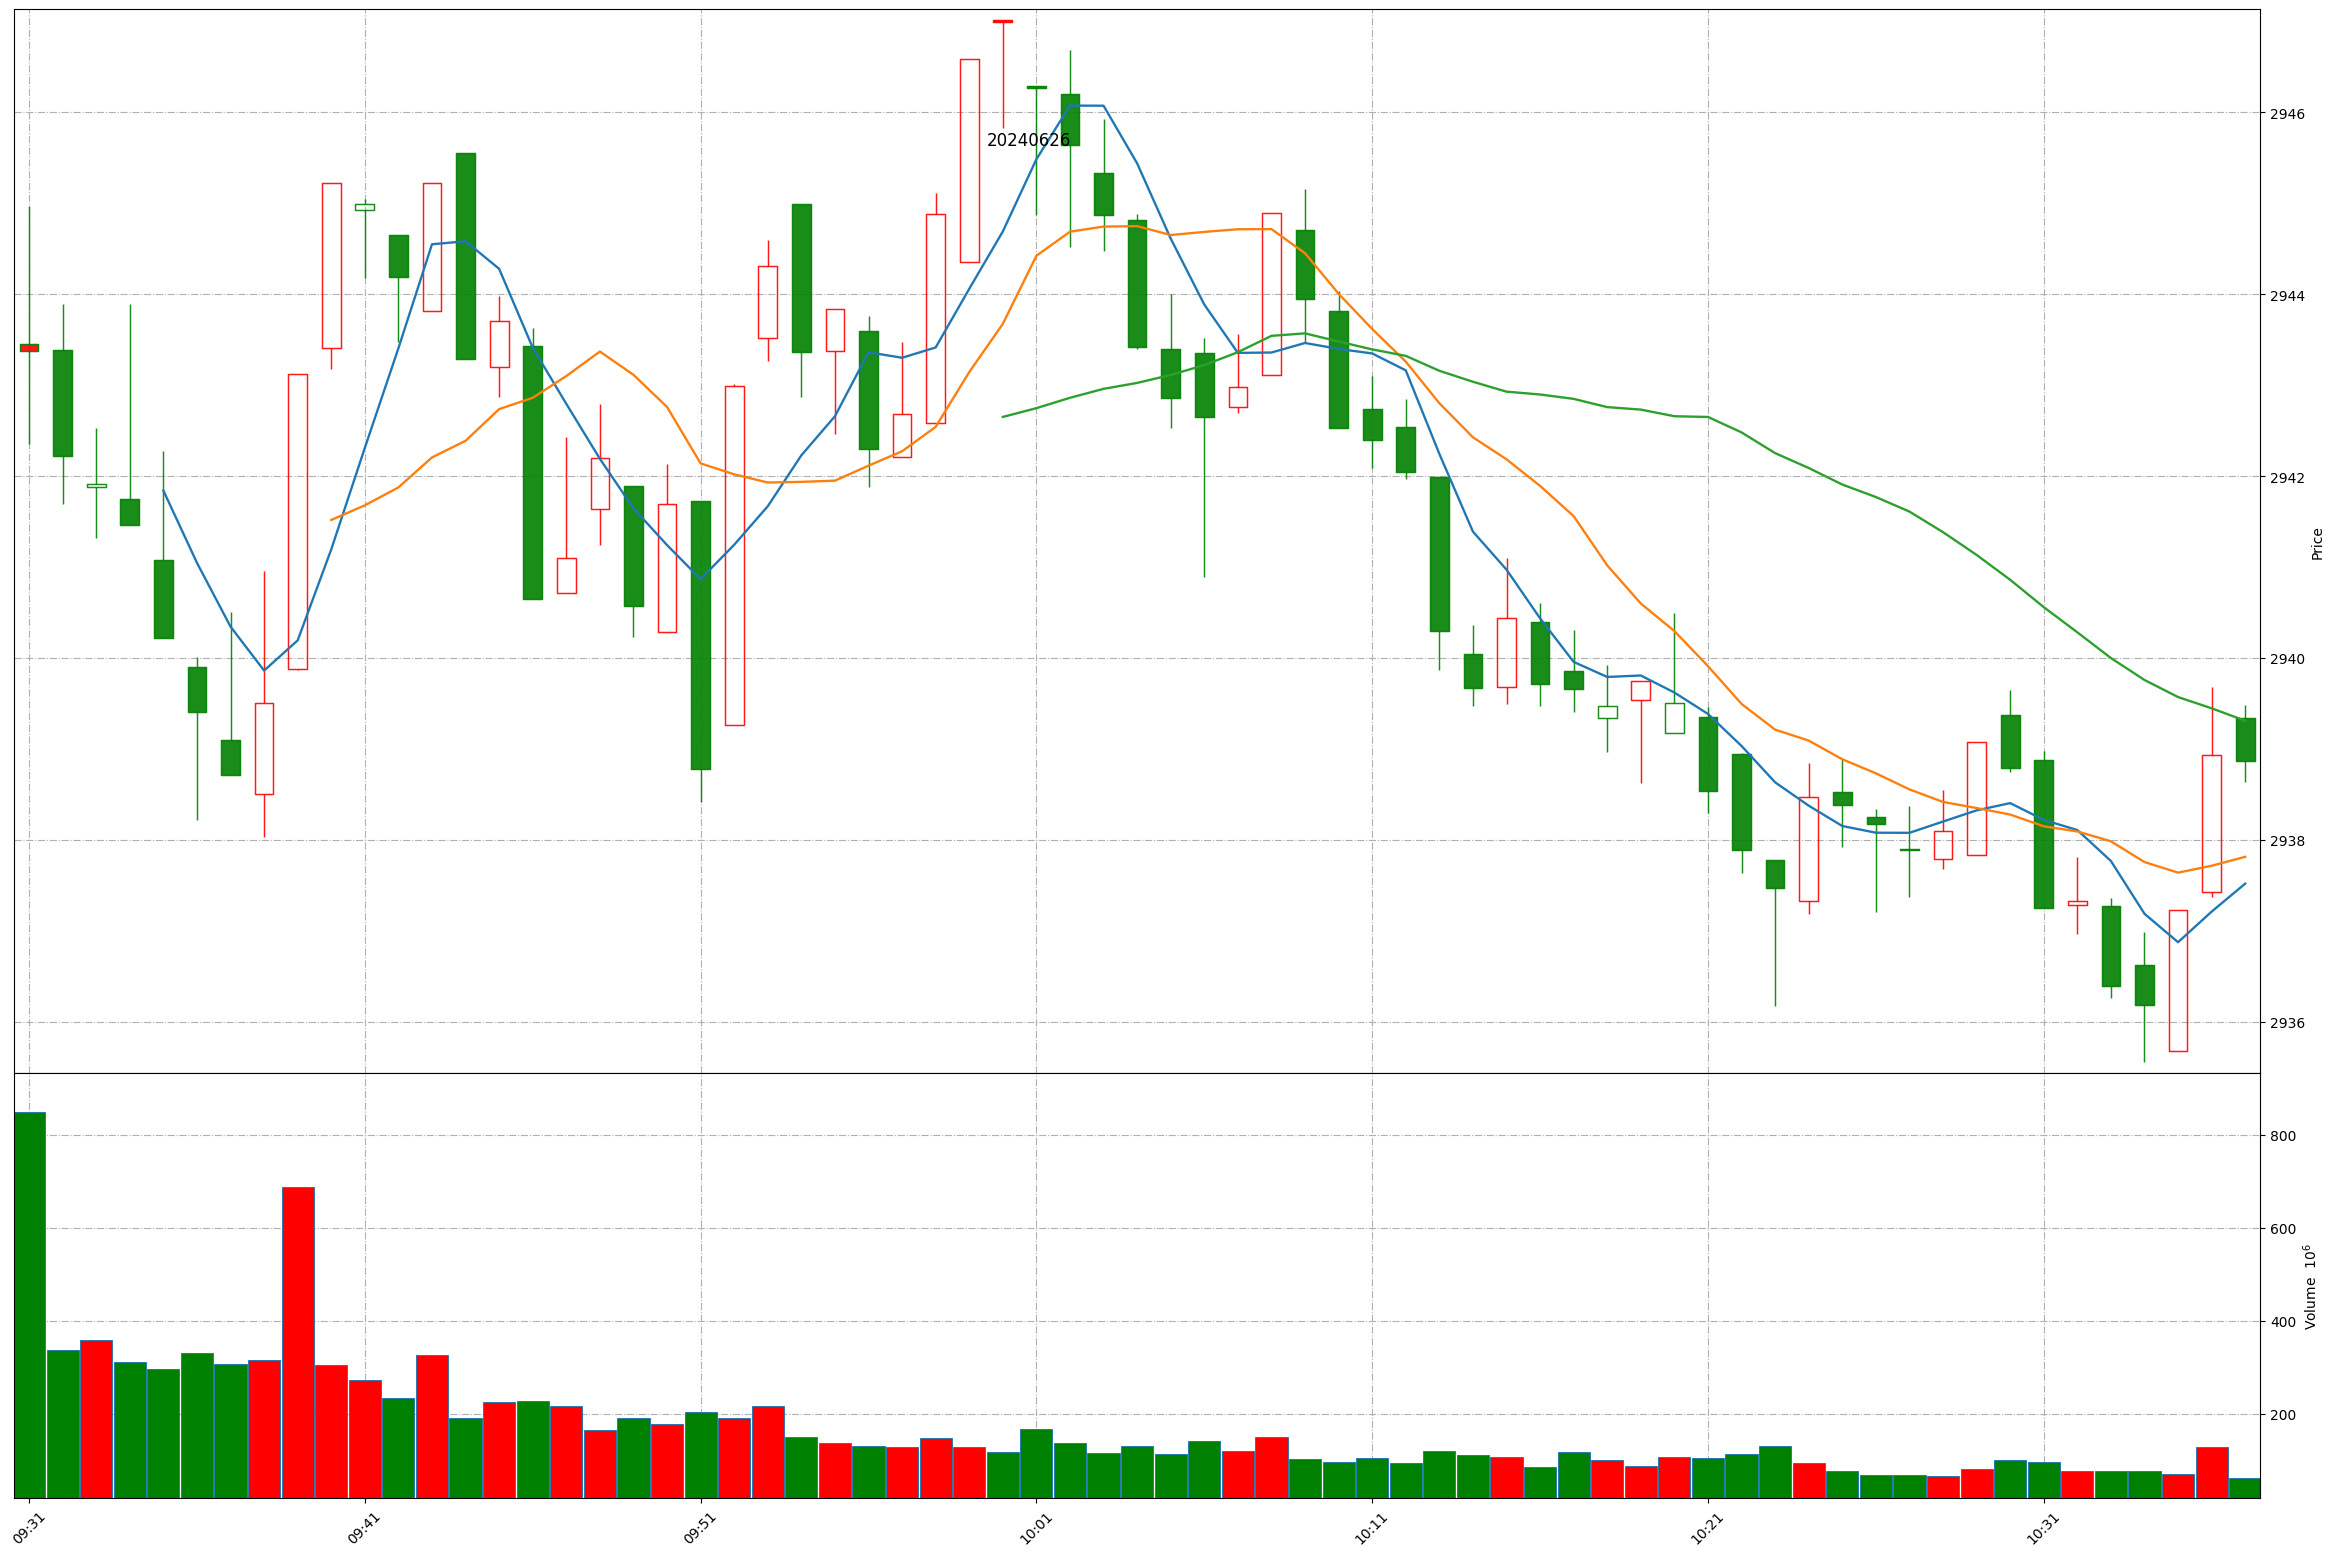
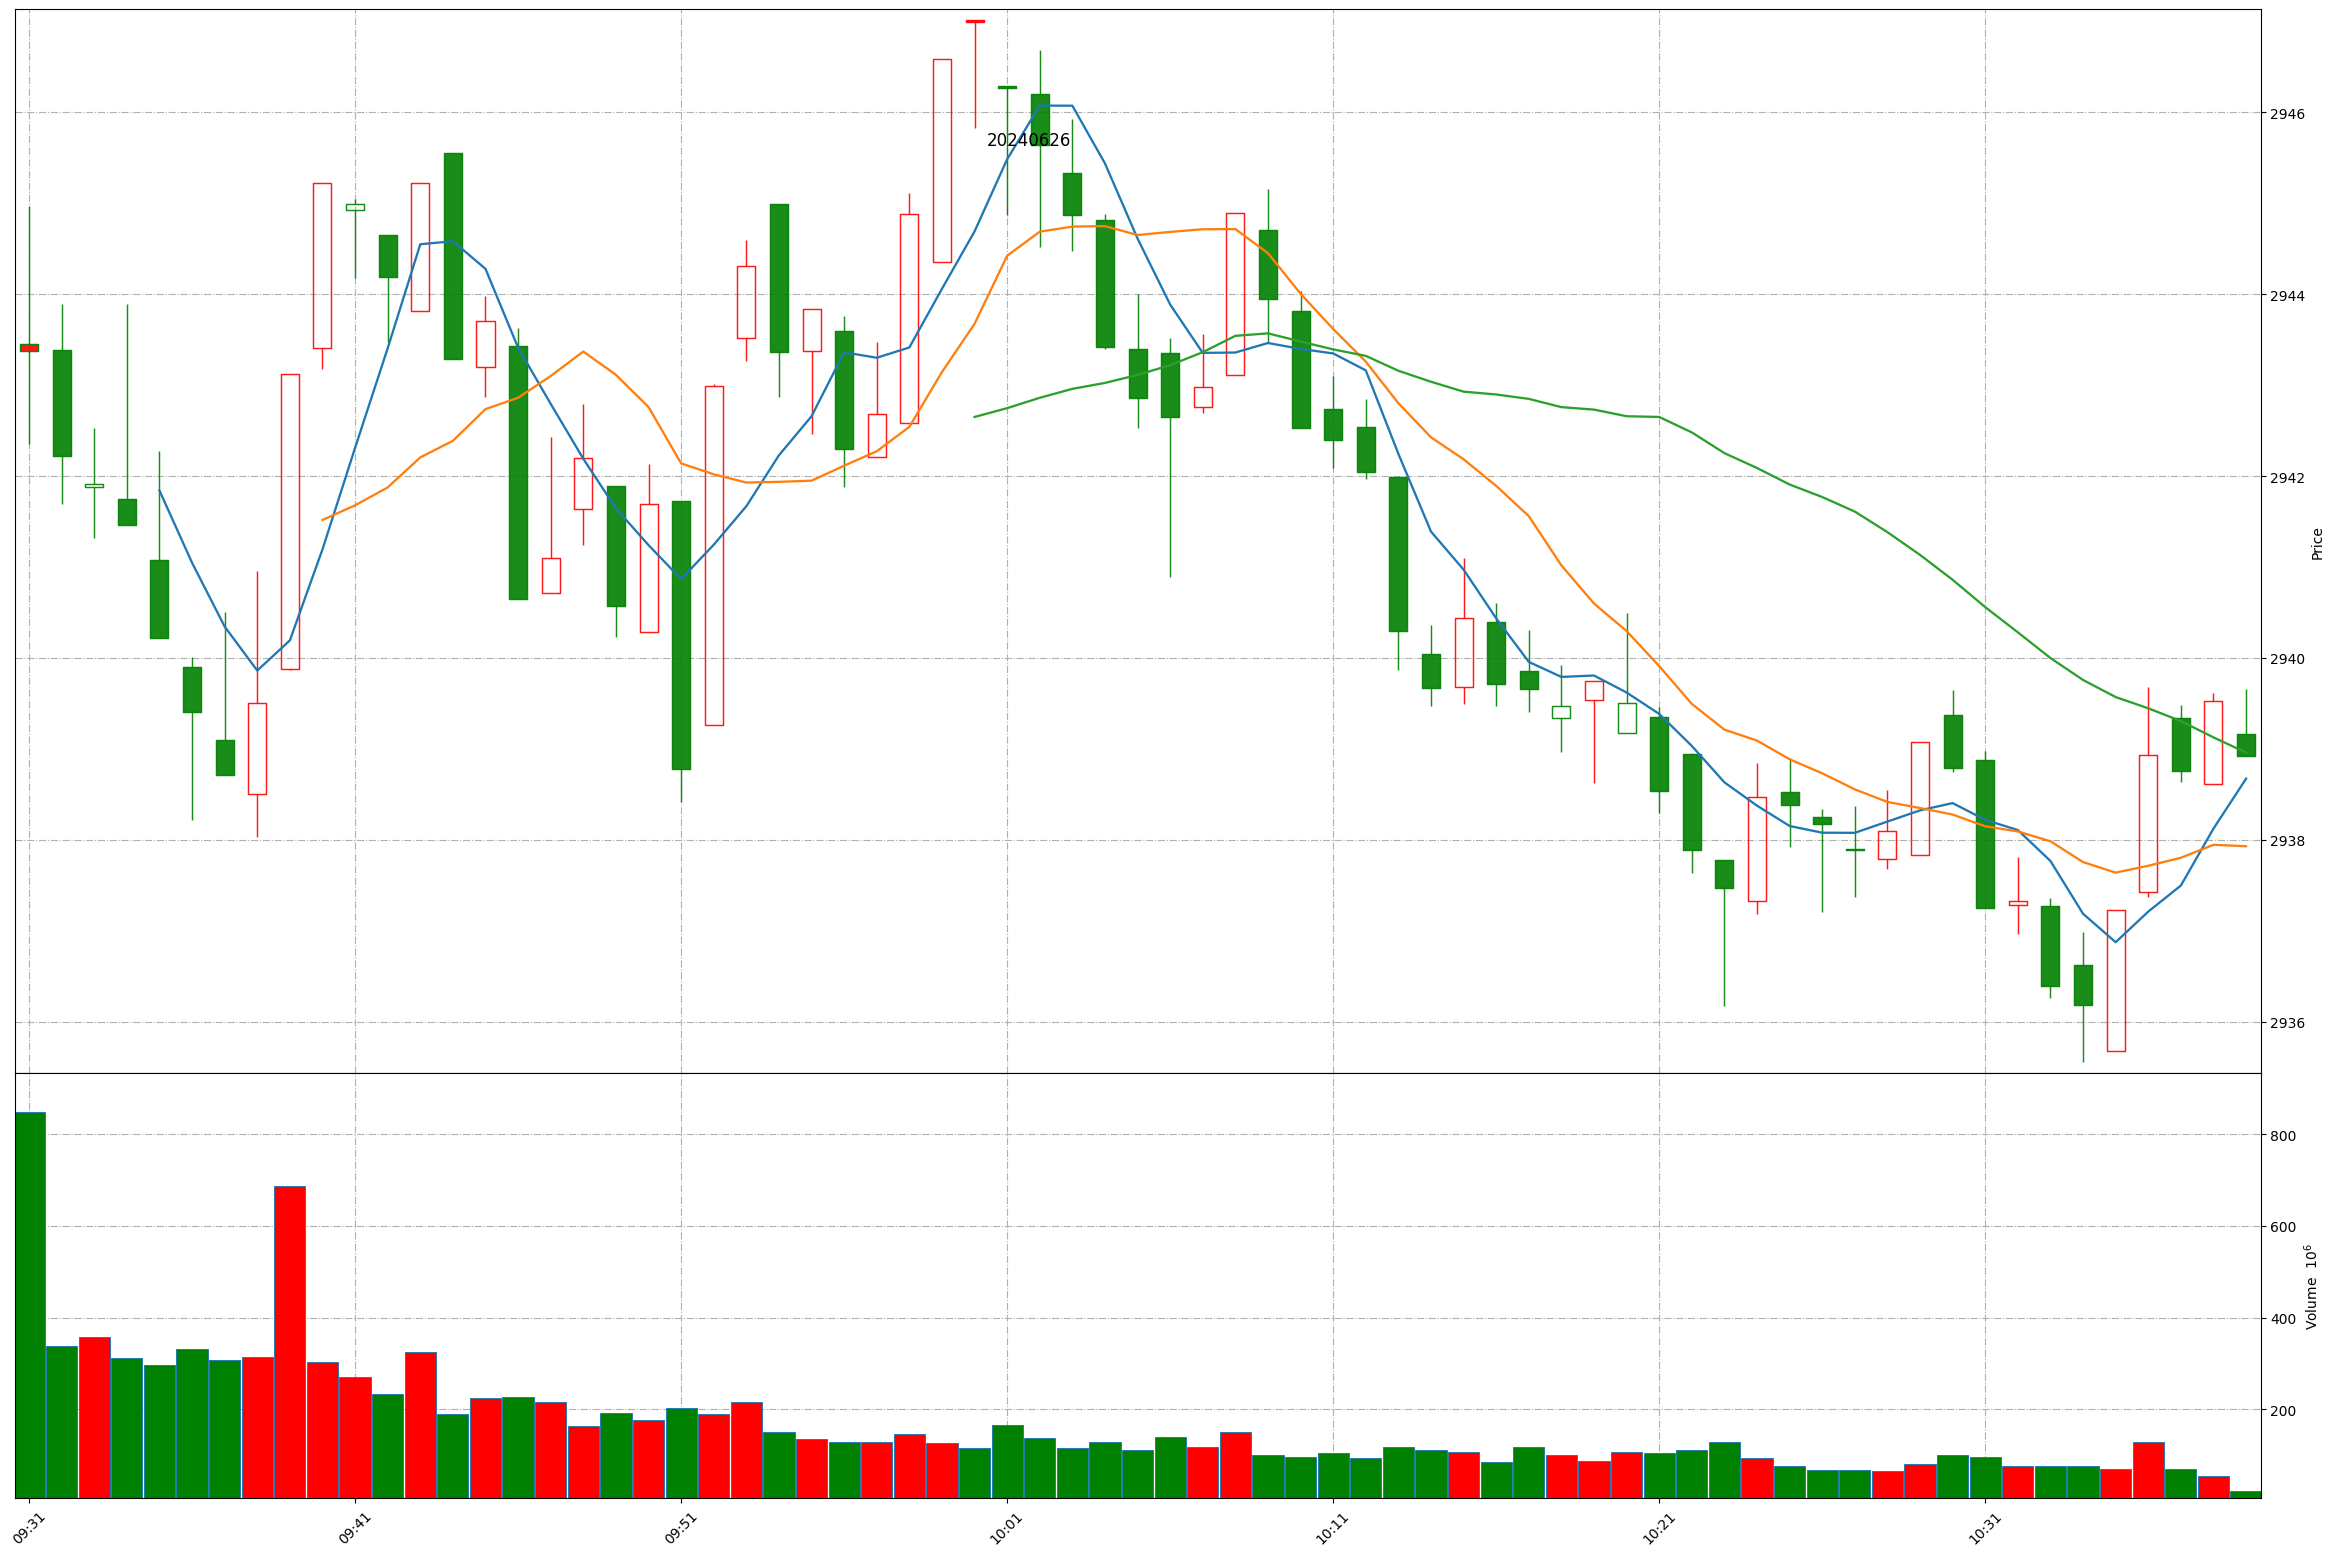
Github action update at 2024-06-26 10:38:43.

diff --git a/README.md b/README.md
@@ -1,11 +1,11 @@
 
 # Daily-A-share-market-quotes 每日 A 股指数（5min 更新）- 20240626
 
-### 上证指数 20240626 10:37
+### 上证指数 20240626 10:38
 ![](./fig/2024/6/20240626-sh000001.png)
 
-### 深证成指 20240626 10:37
+### 深证成指 20240626 10:38
 ![](./fig/2024/6/20240626-sz399001.png)
 
-### 北证50 20240626 10:37
+### 北证50 20240626 10:38
 ![](./fig/2024/6/20240626-bj899050.png)
